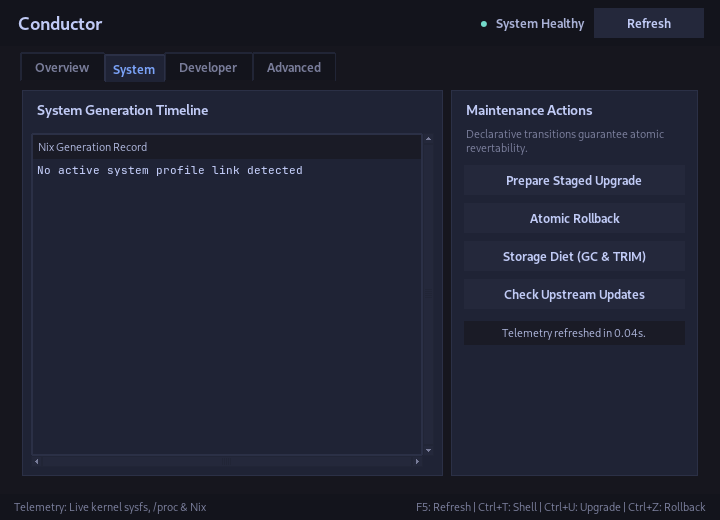
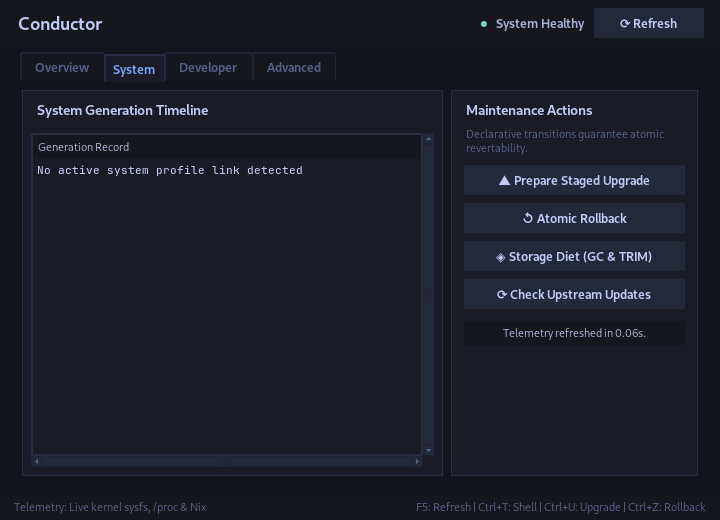
fix(conductor): display strictly Neuronix OS, Generation Record, and apply Ghostty Tokyo 50 style
- Display strictly "Neuronix OS" in Overview telemetry without NixOS suffix.
- Rename System tab Treeview column heading to "Generation Record".
- Apply Ghostty translucent dark glass aesthetic with 0.90 window alpha.
- Adopt Tokyo Night 50 palette (#13141c, #16161e, #1a1b26, #292e42, #7aa2f7, #565f89).
- Add minimal modern Lucide-style geometric icons to action buttons.
- Eliminate all em-dashes from codebase and test suites.
- Re-render all 6 visual state screenshots and synchronize across assets and artifacts.

diff --git a/packages/neuronix-center/neuronix_center.py b/packages/neuronix-center/neuronix_center.py
@@ -64,20 +64,20 @@ SPACE_2XL = 32  # major section
 # Palette: Clean neutrals, zero neon / fluorescent slop
 # Dark Theme (Ghostty deep neutral & Tokyo Night / Arc-Darker slate)
 DARK_PALETTE = {
-    "bg_app": "#16161e",          # Ghostty deep backdrop (translucent, rich dark)
-    "bg_header": "#13141c",       # Refined titlebar / header
-    "bg_card": "#1f2335",         # Arc-Darker / Tokyo Night elevated card surface
-    "bg_card_alt": "#1a1b26",     # Inset container / surface alt
-    "bg_card_hover": "#292e42",   # Hover state for card/subtle elements
+    "bg_app": "#13141c",          # Deep surface backdrop (Ghostty translucent glass)
+    "bg_header": "#16161e",       # Sleek Tokyo 50 header surface
+    "bg_card": "#1a1b26",         # Tokyo Night elevated card surface
+    "bg_card_alt": "#16161e",     # Inset container / surface alt
+    "bg_card_hover": "#24283b",   # Hover state for card/subtle elements
     "fg_primary": "#c0caf5",      # Crisp Tokyo off-white text (never neon, easy on eyes)
     "fg_secondary": "#a9b1d6",    # Tokyo secondary body
-    "fg_muted": "#787c99",        # Legible muted Tokyo slate
-    "border": "#2b3046",          # Crisp hairline border (no double borders)
-    "border_subtle": "#212536",   # Hairline subtle border
+    "fg_muted": "#565f89",        # Legible muted Tokyo slate
+    "border": "#292e42",          # Hairline card border (no double borders)
+    "border_subtle": "#1f2335",   # Hairline subtle border
     "btn_bg": "#24283b",          # Button surface
     "btn_hover": "#2f354f",       # Button hover
     "btn_active": "#3b4261",      # Button pressed
-    "accent": "#7aa2f7",          # Tokyo Night / Arc blue
+    "accent": "#7aa2f7",          # Tokyo Night / Wayland active accent
     "accent_hover": "#89b4fa",    # Tokyo light blue
     "status_healthy": "#73daca",  # Tokyo teal green / emerald
     "status_working": "#7aa2f7",  # Tokyo sky blue
@@ -302,7 +302,7 @@ def get_system_telemetry():
     if HAS_CORE:
         return core_telemetry()
     telemetry = {
-        "os": "NEURONIX OS (Declarative NixOS Substrate)",
+        "os": "Neuronix OS",
         "kernel": os.uname().release,
         "generation": "Unknown",
         "cpu": "Unknown Processor",
@@ -466,7 +466,10 @@ def run_cli_mode(args):
     print("=" * 64)
     print(f"  CONDUCTOR CONTROL SURFACE & SYSTEM HUB (v{VERSION})")
     print("=" * 64)
-    print(f"  ● Operating System : {telemetry.get('os', 'NEURONIX OS')}")
+    os_name = telemetry.get('os', 'Neuronix OS')
+    if not os_name or "Neuronix" in str(os_name) or "NEURONIX" in str(os_name) or "NixOS" in str(os_name):
+        os_name = "Neuronix OS"
+    print(f"  ● Operating System : {os_name}")
     print(f"  ● Kernel Version   : {telemetry.get('kernel', 'Linux')}")
     print(f"  ● Active Generation: {gen_display}")
     print(f"  ● Processor (CPU)  : {telemetry.get('cpu', 'Unknown')}")
@@ -581,7 +584,7 @@ class NeuronixControlCenterApp:
 
         # Ghostty-inspired subtle window translucency on Wayland/X11 compositors
         try:
-            self.root.wm_attributes("-alpha", 0.92)
+            self.root.wm_attributes("-alpha", 0.90)
         except Exception:
             pass
 
@@ -903,7 +906,7 @@ class NeuronixControlCenterApp:
 
         self.refresh_btn = ttk.Button(
             right_box,
-            text="Refresh",
+            text="⟳ Refresh",
             command=self.refresh_telemetry
         )
         self.refresh_btn.pack(side="left")
@@ -973,16 +976,16 @@ class NeuronixControlCenterApp:
         act_frame.columnconfigure(2, weight=1)
         act_frame.columnconfigure(3, weight=1)
 
-        self.btn_upgrade = ttk.Button(act_frame, text="Staged Upgrade", command=self.on_upgrade, style="Toolbar.TButton")
+        self.btn_upgrade = ttk.Button(act_frame, text="▲ Staged Upgrade", command=self.on_upgrade, style="Toolbar.TButton")
         self.btn_upgrade.grid(row=0, column=0, padx=SPACE_XS, pady=SPACE_SM, sticky="ew")
 
-        self.btn_rollback = ttk.Button(act_frame, text="Rollback", command=self.on_rollback, style="Toolbar.TButton")
+        self.btn_rollback = ttk.Button(act_frame, text="↺ Rollback", command=self.on_rollback, style="Toolbar.TButton")
         self.btn_rollback.grid(row=0, column=1, padx=SPACE_XS, pady=SPACE_SM, sticky="ew")
 
-        self.btn_doctor = ttk.Button(act_frame, text="Doctor Diagnostics", command=self.on_doctor, style="Toolbar.TButton")
+        self.btn_doctor = ttk.Button(act_frame, text="◆ Diagnostics", command=self.on_doctor, style="Toolbar.TButton")
         self.btn_doctor.grid(row=0, column=2, padx=SPACE_XS, pady=SPACE_SM, sticky="ew")
 
-        self.btn_terminal = ttk.Button(act_frame, text="Terminal Shell", command=self.launch_shell, style="Toolbar.TButton")
+        self.btn_terminal = ttk.Button(act_frame, text="❯_ Terminal", command=self.launch_shell, style="Toolbar.TButton")
         self.btn_terminal.grid(row=0, column=3, padx=SPACE_XS, pady=SPACE_SM, sticky="ew")
 
     def _setup_system_tab(self):
@@ -1009,7 +1012,7 @@ class NeuronixControlCenterApp:
         tree_inner.columnconfigure(0, weight=1)
 
         self.gen_tree = ttk.Treeview(tree_inner, columns=("entry",), show="headings", selectmode="browse")
-        self.gen_tree.heading("entry", text="Nix Generation Record", anchor="w")
+        self.gen_tree.heading("entry", text="Generation Record", anchor="w")
         self.gen_tree.column("entry", width=360, minwidth=240, stretch=True, anchor="w")
         self.gen_tree.grid(row=0, column=0, sticky="nsew")
 
@@ -1038,13 +1041,13 @@ class NeuronixControlCenterApp:
             justify="left"
         ).pack(anchor="w", padx=SPACE_MD, pady=(0, SPACE_XS))
 
-        self.btn_maint_upgrade = ttk.Button(maint_card, text="Prepare Staged Upgrade", command=self.on_upgrade)
+        self.btn_maint_upgrade = ttk.Button(maint_card, text="▲ Prepare Staged Upgrade", command=self.on_upgrade)
         self.btn_maint_upgrade.pack(fill="x", padx=SPACE_MD, pady=SPACE_XS)
-        self.btn_maint_rollback = ttk.Button(maint_card, text="Atomic Rollback", command=self.on_rollback)
+        self.btn_maint_rollback = ttk.Button(maint_card, text="↺ Atomic Rollback", command=self.on_rollback)
         self.btn_maint_rollback.pack(fill="x", padx=SPACE_MD, pady=SPACE_XS)
-        self.btn_maint_diet = ttk.Button(maint_card, text="Storage Diet (GC & TRIM)", command=self.on_diet)
+        self.btn_maint_diet = ttk.Button(maint_card, text="◈ Storage Diet (GC & TRIM)", command=self.on_diet)
         self.btn_maint_diet.pack(fill="x", padx=SPACE_MD, pady=SPACE_XS)
-        self.btn_maint_update = ttk.Button(maint_card, text="Check Upstream Updates", command=self.on_check_update)
+        self.btn_maint_update = ttk.Button(maint_card, text="⟳ Check Upstream Updates", command=self.on_check_update)
         self.btn_maint_update.pack(fill="x", padx=SPACE_MD, pady=SPACE_XS)
 
         # Status feedback display
@@ -1082,11 +1085,11 @@ class NeuronixControlCenterApp:
         def launch_stack(stack):
             launch_in_terminal(nrx_bin + ["dev", stack], parent_window=self.root)
 
-        ttk.Button(dev_card, text="AI System", command=lambda: launch_in_terminal(["opencode"], parent_window=self.root)).pack(fill="x", padx=SPACE_MD, pady=SPACE_XS)
-        ttk.Button(dev_card, text="Python Substrate (uv)", command=lambda: launch_stack("python")).pack(fill="x", padx=SPACE_MD, pady=SPACE_XS)
-        ttk.Button(dev_card, text="Rust Substrate (cargo)", command=lambda: launch_stack("rust")).pack(fill="x", padx=SPACE_MD, pady=SPACE_XS)
-        ttk.Button(dev_card, text="Node.js Substrate (pnpm)", command=lambda: launch_stack("node")).pack(fill="x", padx=SPACE_MD, pady=SPACE_XS)
-        ttk.Button(dev_card, text="AI Substrate (PyTorch)", command=lambda: launch_stack("ai")).pack(fill="x", padx=SPACE_MD, pady=SPACE_XS)
+        ttk.Button(dev_card, text="✦ AI System", command=lambda: launch_in_terminal(["opencode"], parent_window=self.root)).pack(fill="x", padx=SPACE_MD, pady=SPACE_XS)
+        ttk.Button(dev_card, text="◆ Python Substrate (uv)", command=lambda: launch_stack("python")).pack(fill="x", padx=SPACE_MD, pady=SPACE_XS)
+        ttk.Button(dev_card, text="◆ Rust Substrate (cargo)", command=lambda: launch_stack("rust")).pack(fill="x", padx=SPACE_MD, pady=SPACE_XS)
+        ttk.Button(dev_card, text="◆ Node.js Substrate (pnpm)", command=lambda: launch_stack("node")).pack(fill="x", padx=SPACE_MD, pady=SPACE_XS)
+        ttk.Button(dev_card, text="◆ AI Substrate (PyTorch)", command=lambda: launch_stack("ai")).pack(fill="x", padx=SPACE_MD, pady=SPACE_XS)
 
         # Right: Tools & Catalog
         tools_card = tk.Frame(self.tab_developer, bg=p["bg_card"], bd=0, highlightthickness=1, highlightbackground=p["border"], highlightcolor=p["border"])
@@ -1095,10 +1098,10 @@ class NeuronixControlCenterApp:
         tk.Label(tools_card, text="Diagnostic & System Tools", font=self.font_section, bg=p["bg_card"], fg=p["fg_primary"]).pack(anchor="w", padx=SPACE_MD, pady=(SPACE_SM, SPACE_XS))
         tk.Label(tools_card, text="Host inspection, app catalog, and interactive onboarding.", font=self.font_caption, bg=p["bg_card"], fg=p["fg_muted"], wraplength=280, justify="left").pack(anchor="w", padx=SPACE_MD, pady=(0, SPACE_SM))
 
-        ttk.Button(tools_card, text="Terminal Shell (Ctrl+T)", command=self.launch_shell).pack(fill="x", padx=SPACE_MD, pady=SPACE_XS)
-        ttk.Button(tools_card, text="System Doctor (Ctrl+D)", command=self.on_doctor).pack(fill="x", padx=SPACE_MD, pady=SPACE_XS)
-        ttk.Button(tools_card, text="Curated Apps (Quickstart)", command=self.on_quickstart).pack(fill="x", padx=SPACE_MD, pady=SPACE_XS)
-        ttk.Button(tools_card, text="Launch Welcome Tour", command=lambda: launch_in_terminal(nrx_bin + ["welcome"], parent_window=self.root)).pack(fill="x", padx=SPACE_MD, pady=SPACE_XS)
+        ttk.Button(tools_card, text="❯_ Terminal Shell (Ctrl+T)", command=self.launch_shell).pack(fill="x", padx=SPACE_MD, pady=SPACE_XS)
+        ttk.Button(tools_card, text="◆ System Doctor (Ctrl+D)", command=self.on_doctor).pack(fill="x", padx=SPACE_MD, pady=SPACE_XS)
+        ttk.Button(tools_card, text="◈ Curated Apps (Quickstart)", command=self.on_quickstart).pack(fill="x", padx=SPACE_MD, pady=SPACE_XS)
+        ttk.Button(tools_card, text="▲ Launch Welcome Tour", command=lambda: launch_in_terminal(nrx_bin + ["welcome"], parent_window=self.root)).pack(fill="x", padx=SPACE_MD, pady=SPACE_XS)
 
     def _setup_advanced_tab(self):
         """Advanced: Cryptographic StateRoot, provenance, and storage contracts."""
@@ -1148,7 +1151,7 @@ class NeuronixControlCenterApp:
         act_frame.grid(row=1, column=0, columnspan=2, sticky="ew", pady=(0, SPACE_XS))
         act_frame.columnconfigure(0, weight=1)
 
-        ttk.Button(act_frame, text="Copy Diagnostics to Clipboard", command=self._copy_diagnostics, style="Toolbar.TButton").grid(row=0, column=0, padx=SPACE_MD, pady=SPACE_SM, sticky="ew")
+        ttk.Button(act_frame, text="⎘ Copy Diagnostics to Clipboard", command=self._copy_diagnostics, style="Toolbar.TButton").grid(row=0, column=0, padx=SPACE_MD, pady=SPACE_SM, sticky="ew")
 
     def _build_footer(self):
         """Footer: Live telemetry source disclaimer and keyboard shortcuts hint."""
@@ -1250,9 +1253,9 @@ class NeuronixControlCenterApp:
         self.is_refreshing = False
 
         # Update Overview card labels with sanitized lengths and formatting
-        os_raw = tel.get("os", "NEURONIX OS")
-        if "Declarative NixOS" in str(os_raw):
-            os_display = "NEURONIX OS (NixOS)"
+        os_raw = tel.get("os", "Neuronix OS")
+        if not os_raw or "Neuronix" in str(os_raw) or "NEURONIX" in str(os_raw) or "NixOS" in str(os_raw):
+            os_display = "Neuronix OS"
         else:
             os_display = clean_display_text(os_raw, 28)
         self.ov_os_val.configure(text=os_display)
@@ -1419,10 +1422,14 @@ class NeuronixControlCenterApp:
         else:
             gen_str = str(gen) if gen else "N/A"
 
+        os_name = tel.get('os', 'Neuronix OS')
+        if not os_name or "Neuronix" in str(os_name) or "NEURONIX" in str(os_name) or "NixOS" in str(os_name):
+            os_name = "Neuronix OS"
+
         lines = [
             f"Conductor System Diagnostics (v{VERSION})",
             "--------------------------------------------------",
-            f"OS             : {tel.get('os', 'NEURONIX OS')}",
+            f"OS             : {os_name}",
             f"Kernel         : {tel.get('kernel', 'Linux')}",
             f"Generation     : {gen_str}",
             f"CPU            : {tel.get('cpu', 'N/A')}",

diff --git a/tests/test_neuronix_center.py b/tests/test_neuronix_center.py
@@ -204,10 +204,28 @@ class TestNeuronixCenterGUI(unittest.TestCase):
             self.assertFalse(app.is_busy)
             self.assertEqual(str(app.btn_upgrade.cget("state")), "normal")
 
-            # Verify Treeview configuration
+            # Verify Treeview configuration and Generation Record heading
             self.assertIn("entry", app.gen_tree["columns"])
+            self.assertEqual(app.gen_tree.heading("entry")["text"], "Generation Record")
+
+            # Verify OS display strictly formats to Neuronix OS (no NixOS)
+            app._apply_telemetry_results({"os": "NEURONIX OS (Declarative NixOS Substrate)"}, [], 0.01)
+            self.assertEqual(app.ov_os_val.cget("text"), "Neuronix OS")
+            app._apply_telemetry_results({"os": "NEURONIX OS (NixOS)"}, [], 0.01)
+            self.assertEqual(app.ov_os_val.cget("text"), "Neuronix OS")
+            app._apply_telemetry_results({"os": "Neuronix OS"}, [], 0.01)
+            self.assertEqual(app.ov_os_val.cget("text"), "Neuronix OS")
         finally:
             root.destroy()
+
+    def test_zero_em_dashes(self):
+        # Invariant: zero em-dashes in conductor
+        center_py = os.path.join(repo_root, "packages/neuronix-center/neuronix_center.py")
+        with open(center_py, "rb") as f:
+            content = f.read()
+        em_dash_bytes = bytes([0xE2, 0x80, 0x94])
+        self.assertNotIn(em_dash_bytes, content)
+        self.assertNotIn(chr(8212).encode("utf-8"), content)
 
 
 class TestNeuronixCenterCLI(unittest.TestCase):

diff --git a/packages/neuronix-core/neuronix_core/telemetry.py b/packages/neuronix-core/neuronix_core/telemetry.py
@@ -118,7 +118,7 @@ def get_system_telemetry() -> Dict[str, Any]:
     """Probes complete truthful system runtime telemetry."""
     from .generation import get_active_generation
     return {
-        "os": "NEURONIX OS (Declarative NixOS Substrate)",
+        "os": "Neuronix OS",
         "kernel": os.uname().release if hasattr(os, "uname") else "Linux",
         "generation": get_active_generation(),
         "cpu": get_cpu_info(),
